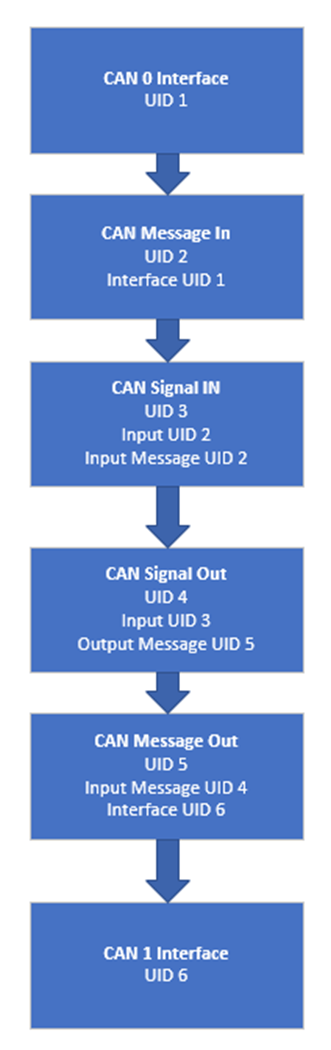
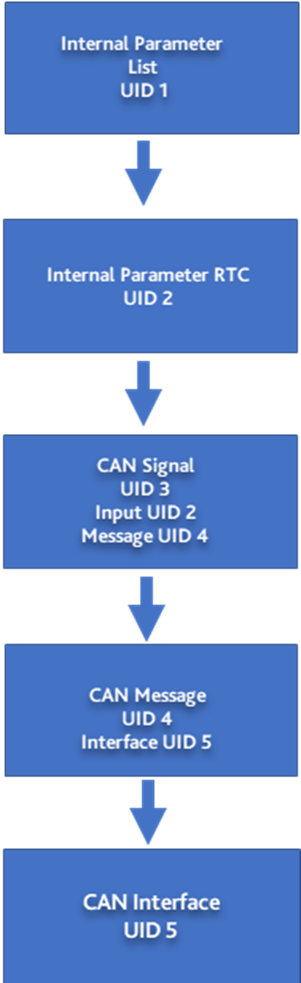
GITBOOK-17: change request with no subject merged in GitBook

diff --git a/rtc-data-over-can-bus.md b/rtc-data-over-can-bus.md
@@ -1,0 +1,94 @@
+# RTC Data Over CAN Bus
+
+This example explains configuring a ReXgen data logger to transmit the RTC data over the CAN Bus.
+
+## Documentation
+
+The below image shows how each element are linked in the XML file.
+
+They are connected using Unique IDs (UID).
+
+<figure><img src=".gitbook/assets/image.png" alt="" width="151"><figcaption></figcaption></figure>
+
+### Default Settings:
+
+CAN Baud Rate: 500 Kbps
+
+Example DBC provided with XML.
+
+### Following parameters can be modified by editing the XML as required.
+
+**Modifying MaxlogSize and MaxLogTime:**
+
+Edit the values of MaxLogSize and MaxLogTime (in seconds) Elements under the SDINTERFACE block for the message you wish to edit.
+
+```xml
+<SDINTERFACE_LIST>
+        <SDINTERFACE UID="2">
+         <MaxLogSize>104857600</MaxLogSize>
+         <MaxLogTime>3600</MaxLogTime>
+```
+
+**Modifying CAN Bus Channel:**
+
+Edit the value of the PhysicalNumber to change the channel number to 0, 1, 2 or 3
+
+Modify CANBusSpeed element in the XML file under the CAN interface block to modify CAN bus baud rate.&#x20;
+
+Value has to be specified in bps.
+
+```xml
+<CANINTERFACE UID="4">
+        <Type>CAN</Type>
+        <PhysicalNumber>0</PhysicalNumber>
+        <CANBusSpeed>500000</CANBusSpeed>
+        <CANFDBusSpeed>8000000</CANFDBusSpeed>
+```
+
+**Modifying the CAN Message and Transmission period:**
+
+Edit the values of MessageIdentStart and MessageIdentEnd Elements under the CANMESSAGE block for the message ID you wish to transmit to the RTC.
+
+Modify the Transmission period by editing the value of the Period in the XML.
+
+Please note that the example DBC will be invalid after this change.
+
+```xml
+<CANMESSAGE UID="42">
+        <MessageIdentStart>516</MessageIdentStart>
+        <MessageIdentEnd>516</MessageIdentEnd>
+        <Direction>OutputPeriodic</Direction>
+        <DLC>8</DLC>
+        <IsExtended>false</IsExtended>
+        <InterfaceUID>4</InterfaceUID>
+        <Period>1000</Period>
+```
+
+**Modifying the Sampling Rate:**
+
+Edit the values of Sampling Rate under INTERNAL\_PARAMETER block for the message you wish to edit. Please note that the example DBC will be invalid after this change.
+
+```xml
+<INTERNAL_PARAMETER UID="1200">
+                              <InputUID>0</InputUID>
+                   <Parameter_Type>RTC</Parameter_Type>
+        <Value_Type>ULONG</Value_Type>
+        <SamplingRate>1000</SamplingRate
+```
+
+**Modifying the CAN Signal:**
+
+Edit the values of StartBit and Bit Count Elements under the CANSIGNAL block for the message you wish to edit. Please note that the example DBC will be invalid after this change.
+
+```xml
+   <CANSIGNAL UID="44">
+        <InputType>COMMON</InputType>
+        <InputUID>1200</InputUID>
+        <MessageUID>42</MessageUID>
+        <StartBit>7</StartBit>
+        <BitCount>32</BitCount>
+```
+
+#### User can load the XML file into the ReXgen logger using ReXdesk application/ReXdesk Convert application or the Rxlibrary DLL
+
+Process to send XML to logger using ReXdesk. Click on Config Menu > Run > Run Config Using External File > Browse the XML file and click Open

diff --git a/GATEWAY_CAN0_to_CAN1/README.md b/GATEWAY_CAN0_to_CAN1/README.md
@@ -1,4 +1,4 @@
-# XML Example:GATEWAY: CAN 0 to CAN 1.
+# Gateway Routing CAN0 to CAN1.
 
 In this example, we will see how we can configure a ReXgen data logger to route all the CAN traffic from CAN 0 Bus to CAN 1 Bus
 
@@ -6,7 +6,11 @@ In this example, we will see how we can configure a ReXgen data logger to route 
 
 Below image shows how each element are linked in the XML file.
 
-![image](https://user-images.githubusercontent.com/122855530/223421344-baee66c2-ccb6-42d7-8fc0-94dd25ded313.png)
+<div align="left">
+
+<img src="https://user-images.githubusercontent.com/122855530/223421344-baee66c2-ccb6-42d7-8fc0-94dd25ded313.png" alt="image" width="188">
+
+</div>
 
 They are connected using Unique IDs (UID).
 
@@ -19,8 +23,7 @@ They are connected using Unique IDs (UID).
 
 **Modifying CAN Baud Rate:**
 
-Edit the value of CANBusSpeed element in the XML file under the CAN interface block. 
-Value has to be specified in bps
+Edit the value of CANBusSpeed element in the XML file under the CAN interface block. Value has to be specified in bps
 
 ```xml
 <CANINTERFACE UID="4">

diff --git a/SUMMARY.md b/SUMMARY.md
@@ -1,6 +1,6 @@
 # Table of contents
 
-* [🏠 Home](http://localhost:5000/o/HhTfJJOHHF3lfqYUgSrl/s/kcpnrhmQ0syFkwT8z2BF/)
+* [🏠 Home](http://127.0.0.1:5000/o/HhTfJJOHHF3lfqYUgSrl/s/kcpnrhmQ0syFkwT8z2BF/)
 * [Rexgen\_XML\_Examples](README.md)
 * [GNSS Data Transmission Over CAN Bus.](GNSS\_to\_CAN/README.md)
 * [GNSS Data Recording & Transmission Over CAN Bus.](GNSS\_to\_CAN\_SD/README.md)
@@ -8,5 +8,6 @@
 * [ADC Data Recording & Transmission Over CAN Bus.](ADC\_to\_CAN\_SD/README.md)
 * [IMU Data Transmission Over CAN Bus.](IMU\_to\_CAN/README.md)
 * [IMU Data Recording & Transmission Over CAN Bus.](IMU\_to\_CAN\_SD/README.md)
+* [RTC Data Over CAN Bus](rtc-data-over-can-bus.md)
 * [Gateway Routing CAN0 to CAN1.](GATEWAY\_CAN0\_to\_CAN1/README.md)
 * [Gateway Routing CAN0 Signal to CAN1.](GATEWAY\_CAN0\_Signal\_to\_CAN1/README.md)

diff --git a/GATEWAY_CAN0_Signal_to_CAN1/README.md b/GATEWAY_CAN0_Signal_to_CAN1/README.md
@@ -10,7 +10,7 @@ Latitude Longitude Altitude Speed Over Ground Ground Distance Course Over Ground
 
 The below image shows how each element are linked in the XML file.
 
-![](../.gitbook/assets/image.png)
+![](<../.gitbook/assets/image (3).png>)
 
 They are connected using Unique IDs (UID).
 
